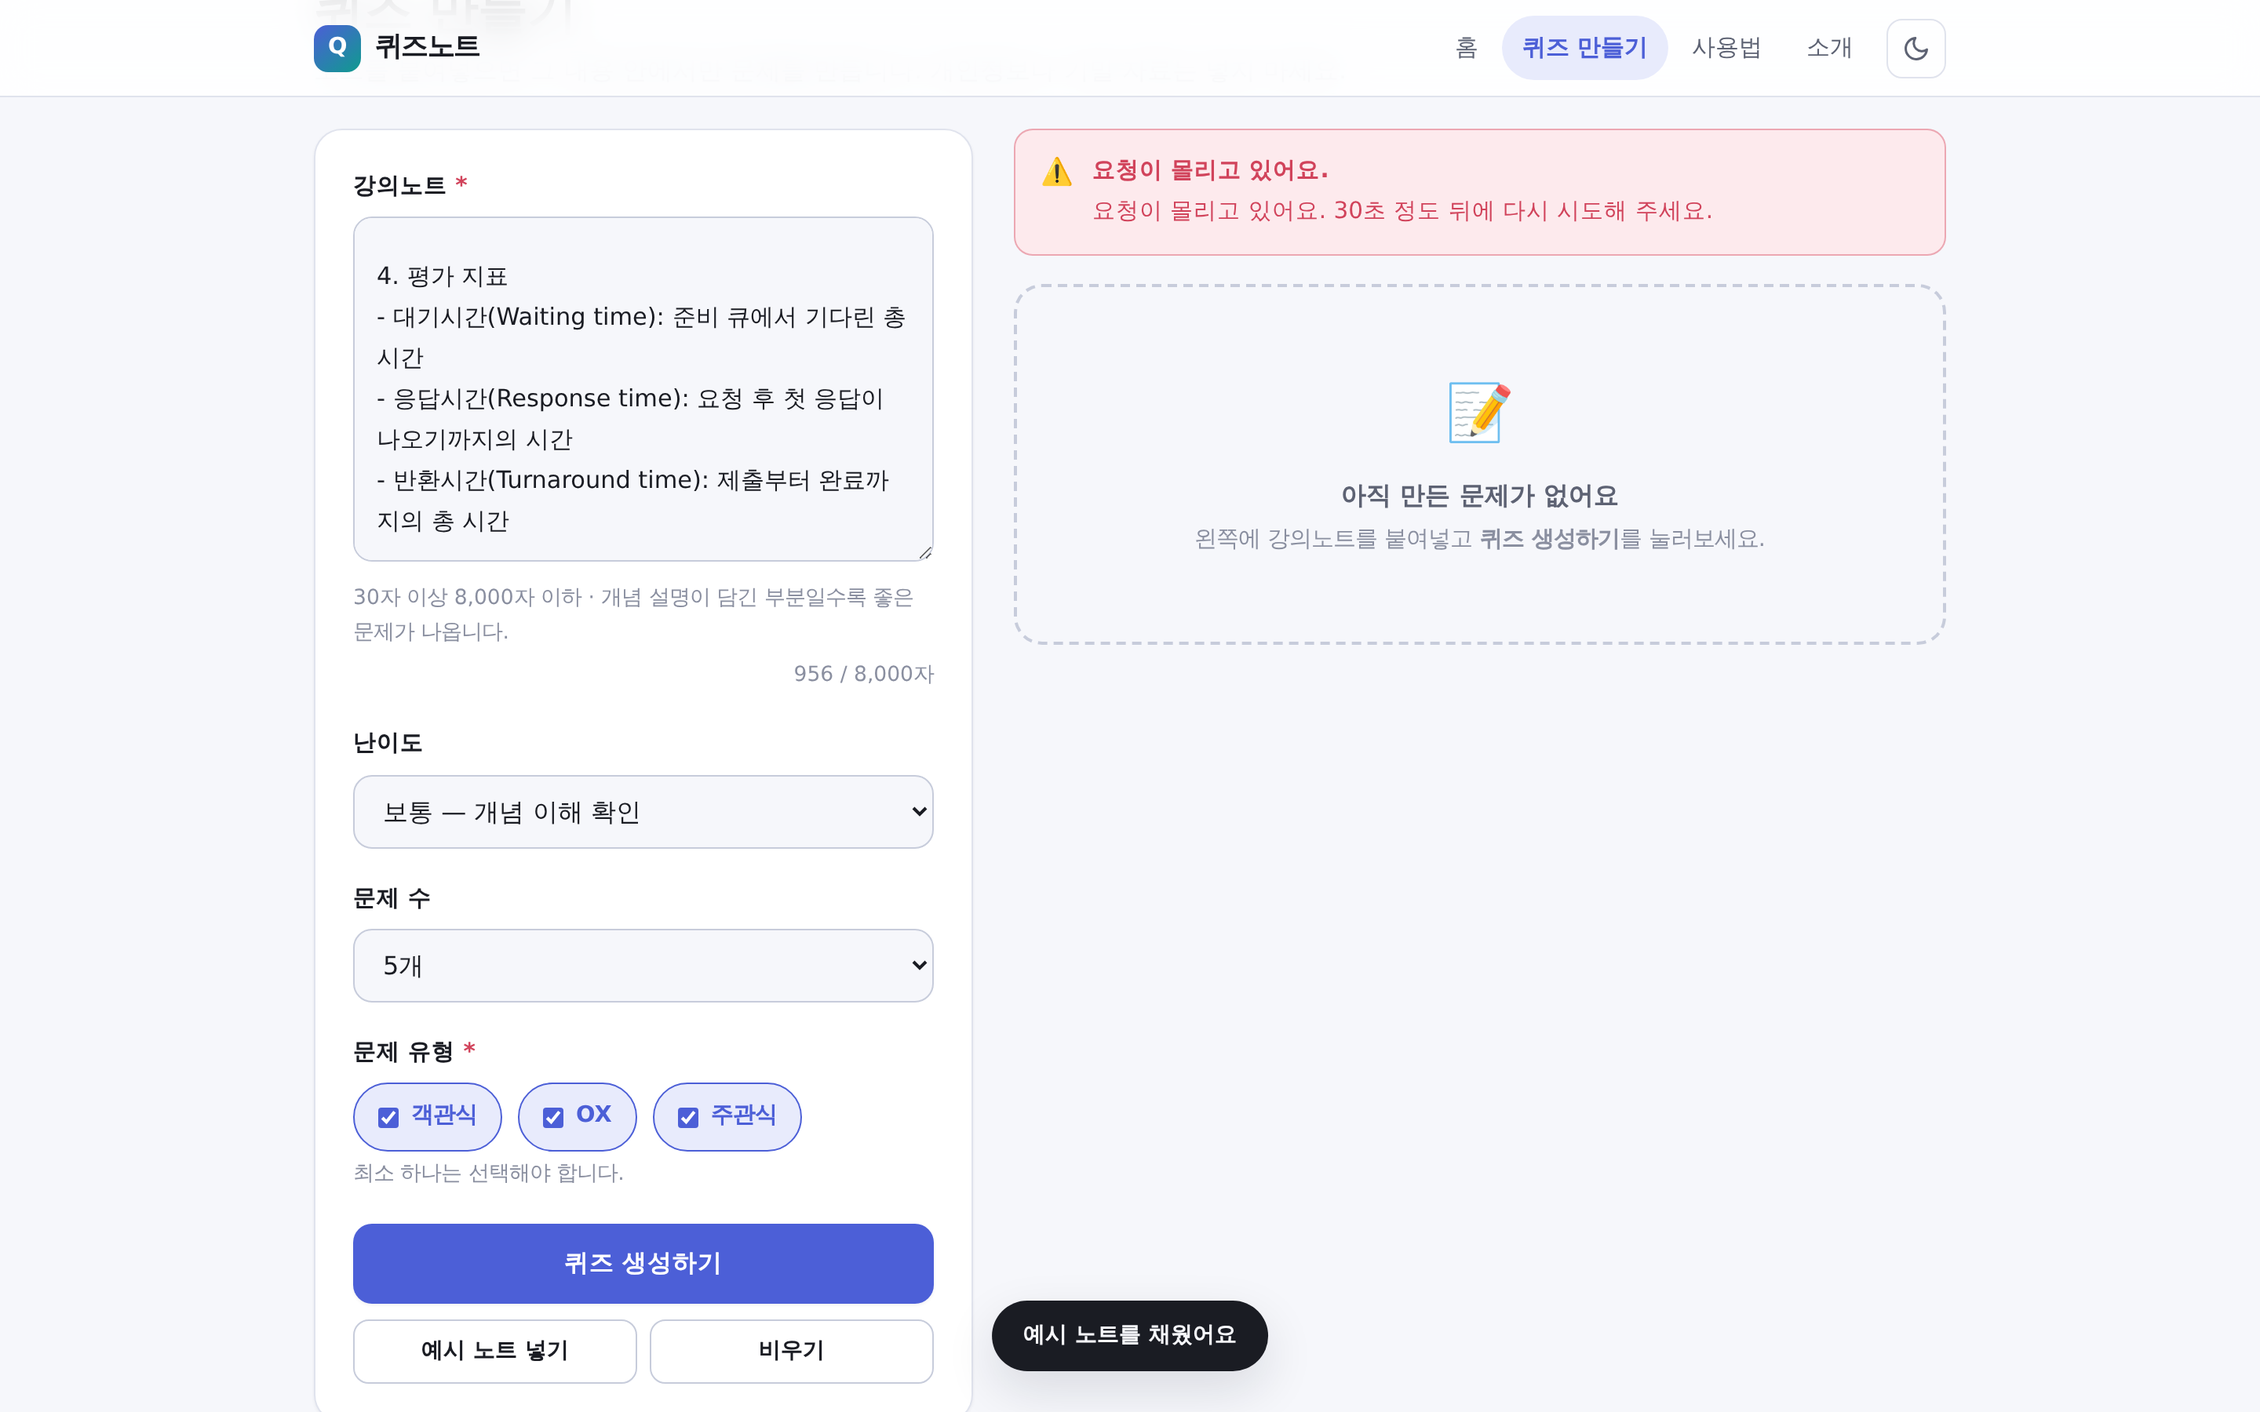
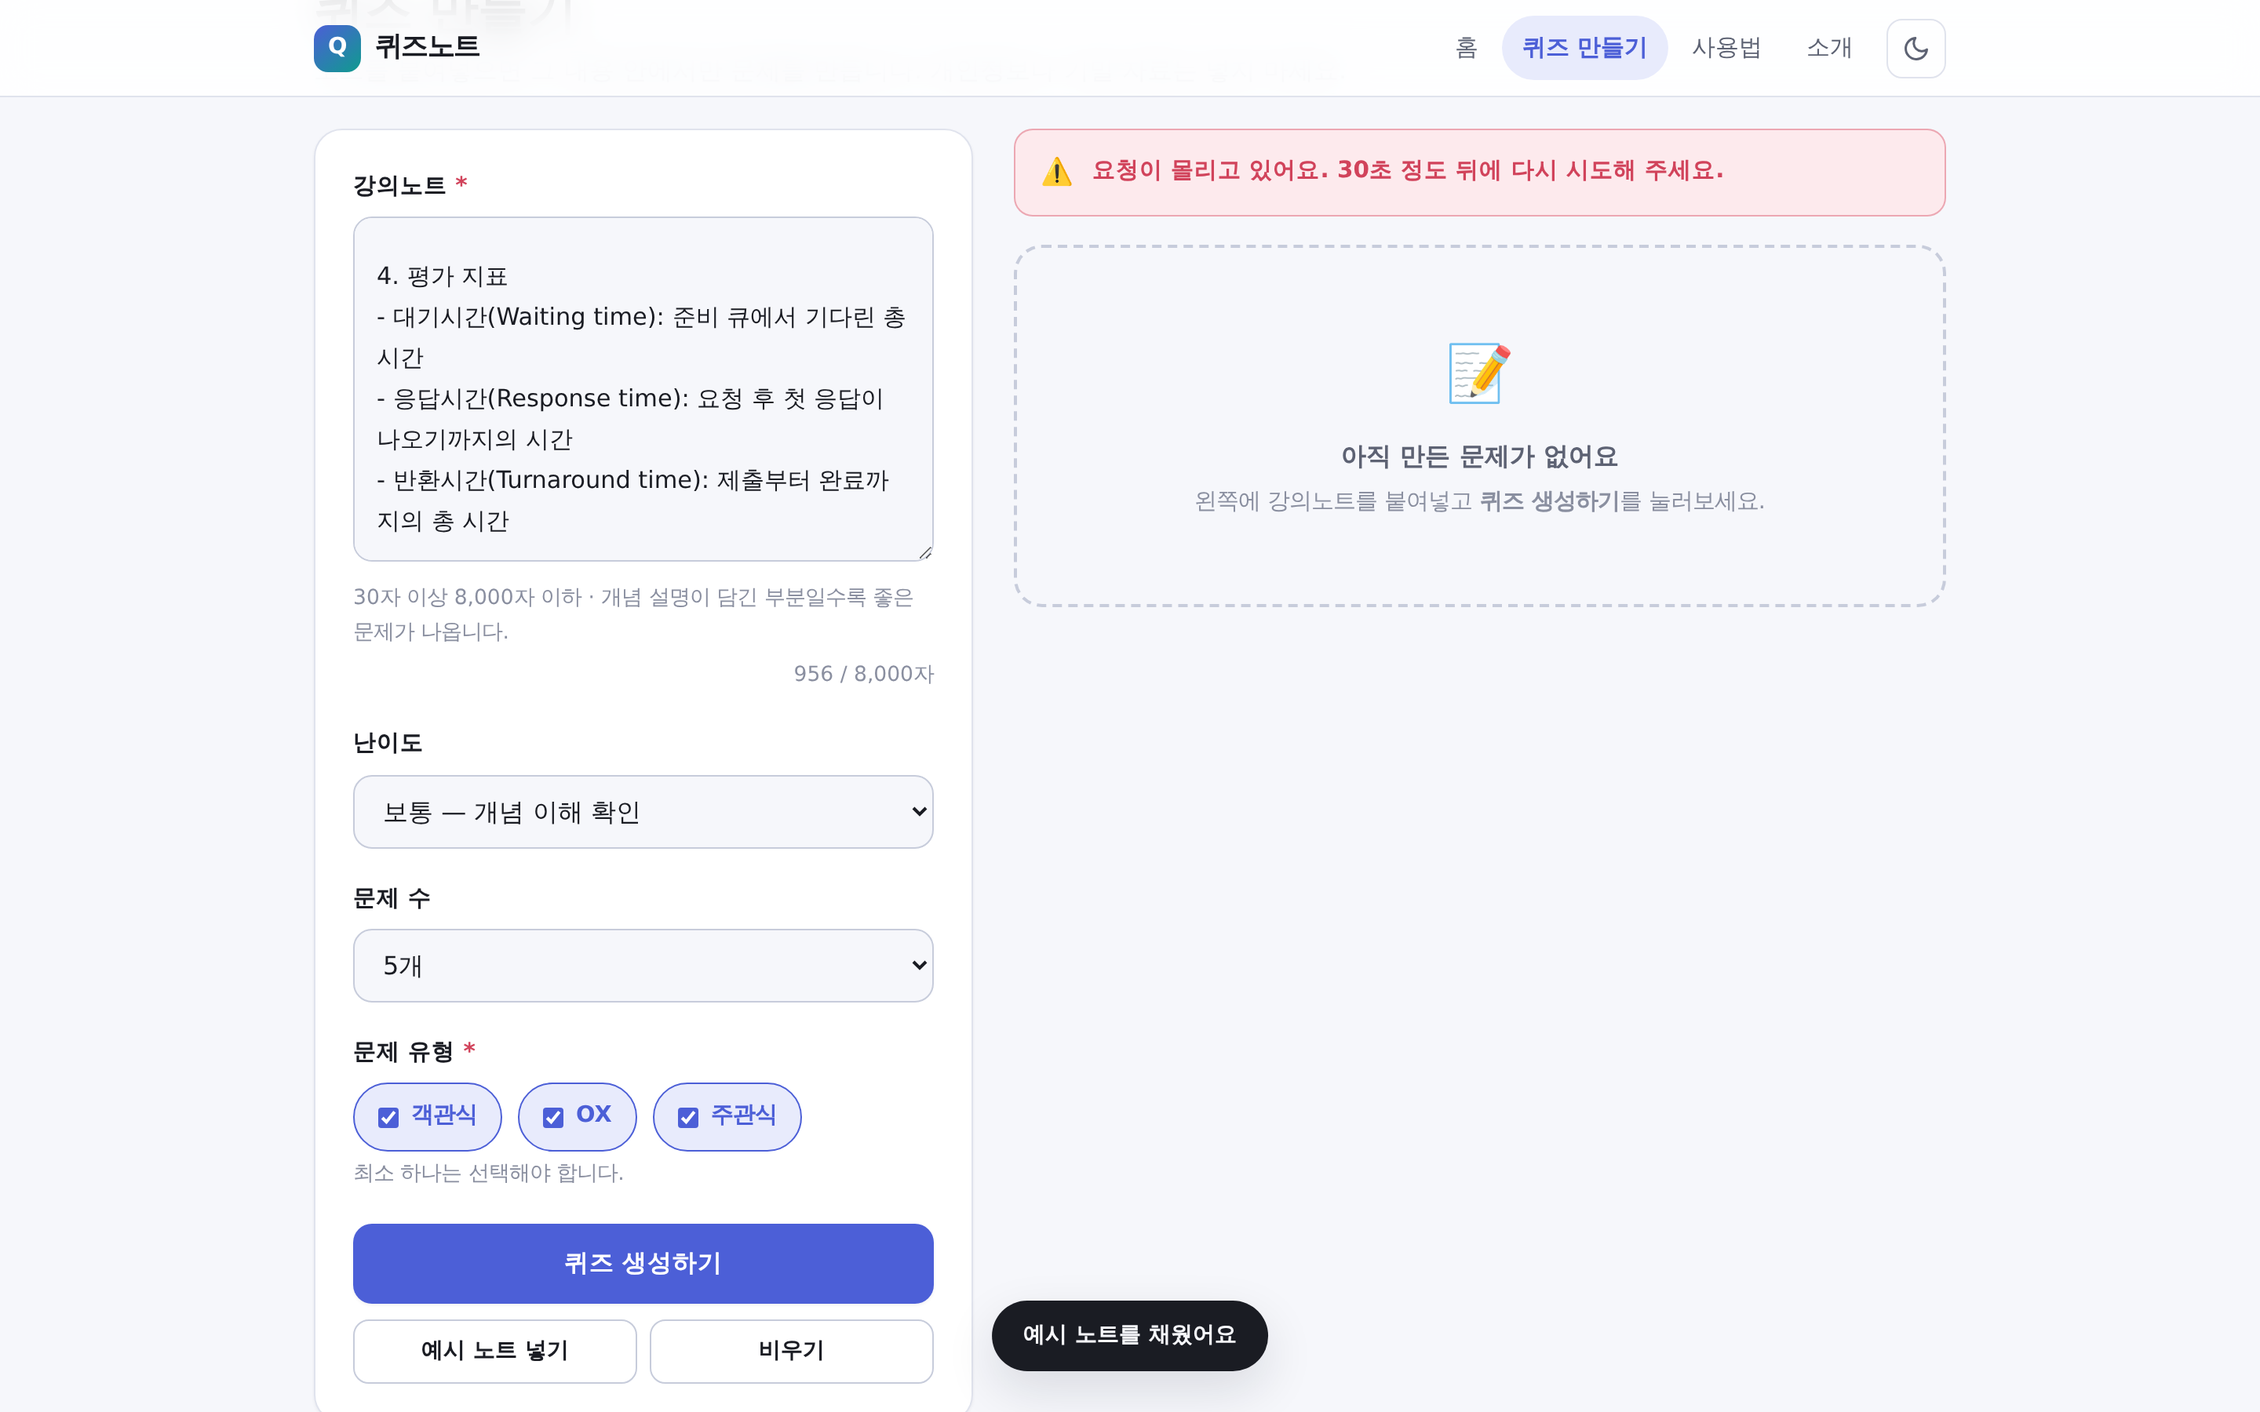
feat: OpenAI 호환 프록시 지원 및 오류 안내 개선
- OPENAI_BASE_URL 환경 변수로 API 서버 주소를 교체 가능하게 변경
- response_format 미지원 서버는 JSON 모드 없이 자동 재시도
- 코드블록/설명이 섞인 응답에서도 JSON 추출
- 404(주소 오류)를 별도 오류로 구분, 서버 메시지를 화면 제목에 노출
- dev_server.py 가 .env 자동 로드, Ctrl+C 종료 정리

Claude-Session: https://claude.ai/code/session_01PGiH5AVx8vTXdwMsNK33bS

Changed region(s): [[0.5312, 0.2489, 0.7812, 0.4044], [0.4688, 0.0933, 0.75, 0.1556]]

diff --git a/js/quiz.js b/js/quiz.js
@@ -441,7 +441,14 @@ async function handleSubmit(e) {
       };
       const fallback = ['문제가 발생했습니다.', ` 잠시 후 다시 시도해 주세요. (오류 코드 ${res.status})`];
       const [title, msg] = map[res.status] || fallback;
-      showAlert('error', title, (data && data.message ? ` ${data.message}` : msg));
+
+      // 서버가 구체적인 안내를 보냈다면 그것을 우선 보여준다.
+      // (같은 502라도 인증 실패인지 주소 오류인지 원인이 다르기 때문)
+      if (data && data.message) {
+        showAlert('error', data.message, '');
+      } else {
+        showAlert('error', title, msg);
+      }
       renderEmpty();
       return;
     }

diff --git a/api/quiz.py b/api/quiz.py
@@ -22,8 +22,10 @@ Vercel Serverless Function (Python)
     실패     → { "ok": false, "error": "코드", "message": "사용자에게 보여줄 안내" }
 
 환경 변수
-    OPENAI_API_KEY  (필수)  OpenAI API 키
-    OPENAI_MODEL    (선택)  기본값 gpt-4o-mini
+    OPENAI_API_KEY   (필수)  API 키
+    OPENAI_BASE_URL  (선택)  기본값 https://api.openai.com/v1
+                             OpenAI 호환 프록시를 쓸 때 그 주소를 넣는다.
+    OPENAI_MODEL     (선택)  기본값 gpt-4o-mini
 """
 
 from http.server import BaseHTTPRequestHandler
@@ -42,8 +44,27 @@ MAX_COUNT = 10
 MAX_BODY_BYTES = 200_000          # 본문 크기 상한 (약 200KB)
 UPSTREAM_TIMEOUT = (5, 45)        # (연결 타임아웃, 읽기 타임아웃) 초
 
-OPENAI_URL = "https://api.openai.com/v1/chat/completions"
+DEFAULT_BASE_URL = "https://api.openai.com/v1"
 DEFAULT_MODEL = "gpt-4o-mini"
+
+
+def chat_completions_url() -> str:
+    """
+    호출할 엔드포인트 주소를 만든다.
+
+    OpenAI 본사 API 대신 OpenAI 호환 프록시(사내/교육용 게이트웨이 등)를 쓰는 경우가 있어
+    베이스 주소를 환경 변수로 뺐다. OPENAI_BASE_URL 을 지정하지 않으면 OpenAI 본사로 간다.
+
+    예)
+        OPENAI_BASE_URL=https://api.openai.com/v1          → 본사
+        OPENAI_BASE_URL=https://example.com/v1             → 호환 프록시
+    """
+    base = (os.environ.get("OPENAI_BASE_URL") or DEFAULT_BASE_URL).strip().rstrip("/")
+
+    # 주소 끝에 이미 /chat/completions 까지 적어 둔 경우도 그대로 받아준다.
+    if base.endswith("/chat/completions"):
+        return base
+    return f"{base}/chat/completions"
 
 VALID_TYPES = ("multiple", "ox", "short")
 VALID_DIFFICULTY = ("easy", "normal", "hard")
@@ -234,55 +255,106 @@ def call_openai(params: dict) -> dict:
 
     model = os.environ.get("OPENAI_MODEL", DEFAULT_MODEL)
 
-    body = {
-        "model": model,
-        "messages": [
-            {"role": "system", "content": build_system_prompt(params["difficulty"], params["count"], params["types"])},
-            {"role": "user", "content": build_user_prompt(params["notes"], params["count"])},
-        ],
-        "response_format": {"type": "json_object"},
-        "temperature": 0.7,
-        "max_tokens": 2600,
+    url = chat_completions_url()
+    headers = {
+        "Authorization": f"Bearer {api_key}",
+        "Content-Type": "application/json",
     }
 
-    try:
-        res = requests.post(
-            OPENAI_URL,
-            headers={
-                "Authorization": f"Bearer {api_key}",
-                "Content-Type": "application/json",
-            },
-            json=body,
-            timeout=UPSTREAM_TIMEOUT,
-        )
-    except requests.exceptions.Timeout:
-        raise InputError(504, "upstream_timeout", "AI 응답이 너무 늦어졌습니다. 노트를 줄이거나 문제 수를 줄여 다시 시도해 주세요.")
-    except requests.exceptions.RequestException:
-        raise InputError(502, "upstream_unreachable", "AI 서버에 연결하지 못했습니다. 잠시 후 다시 시도해 주세요.")
+    def body(json_mode: bool) -> dict:
+        b = {
+            "model": model,
+            "messages": [
+                {"role": "system", "content": build_system_prompt(params["difficulty"], params["count"], params["types"])},
+                {"role": "user", "content": build_user_prompt(params["notes"], params["count"])},
+            ],
+            "temperature": 0.7,
+            "max_tokens": 2600,
+        }
+        if json_mode:
+            # OpenAI JSON 모드. 호환 프록시 중에는 이 옵션을 모르는 곳이 있어 실패 시 빼고 재시도한다.
+            b["response_format"] = {"type": "json_object"}
+        return b
+
+    def post(json_mode: bool):
+        try:
+            return requests.post(url, headers=headers, json=body(json_mode), timeout=UPSTREAM_TIMEOUT)
+        except requests.exceptions.Timeout:
+            raise InputError(504, "upstream_timeout", "AI 응답이 너무 늦어졌습니다. 노트를 줄이거나 문제 수를 줄여 다시 시도해 주세요.")
+        except requests.exceptions.RequestException:
+            raise InputError(502, "upstream_unreachable", "AI 서버에 연결하지 못했습니다. 주소 설정과 네트워크를 확인해 주세요.")
+
+    res = post(True)
+
+    # response_format 을 지원하지 않는 서버라면 400을 준다. 한 번만 빼고 다시 시도한다.
+    if res.status_code == 400 and "response_format" in res.text:
+        print("[quiz] response_format 미지원으로 판단, JSON 모드 없이 재시도")
+        res = post(False)
 
     # --- 상태 코드별 처리 ---------------------------------------------------
-    if res.status_code == 401:
-        raise InputError(502, "upstream_auth", "AI 서비스 인증에 실패했습니다. 관리자에게 문의해 주세요.")
+    if res.status_code in (401, 403):
+        print(f"[quiz] auth {res.status_code} at {url}: {res.text[:200]}")
+        raise InputError(502, "upstream_auth", "AI 서비스 인증에 실패했습니다. API 키와 주소 설정을 확인해 주세요.")
+    if res.status_code == 404:
+        print(f"[quiz] 404 at {url}")
+        raise InputError(502, "upstream_not_found", "AI 서버 주소가 올바르지 않습니다. OPENAI_BASE_URL 설정을 확인해 주세요.")
     if res.status_code == 429:
         raise InputError(429, "rate_limited", "요청이 몰리고 있어요. 30초 정도 뒤에 다시 시도해 주세요.")
     if res.status_code >= 500:
+        print(f"[quiz] upstream {res.status_code} at {url}")
         raise InputError(502, "upstream_error", "AI 서버가 응답하지 않습니다. 잠시 후 다시 시도해 주세요.")
     if res.status_code >= 400:
-        # 400대 나머지 (잘못된 모델명, 컨텍스트 초과 등). 내부 메시지는 노출하지 않는다.
-        print(f"[quiz] openai {res.status_code}: {res.text[:300]}")
-        raise InputError(502, "upstream_bad_request", "AI 요청이 거부되었습니다. 노트를 조금 줄여 다시 시도해 주세요.")
+        # 400대 나머지 (잘못된 모델명, 컨텍스트 초과 등). 내부 메시지는 화면에 노출하지 않는다.
+        print(f"[quiz] upstream {res.status_code} at {url}: {res.text[:300]}")
+        raise InputError(502, "upstream_bad_request", "AI 요청이 거부되었습니다. 모델 이름과 노트 길이를 확인해 주세요.")
 
     # --- 본문 파싱 ----------------------------------------------------------
     try:
         content = res.json()["choices"][0]["message"]["content"]
-        parsed = json.loads(content)
     except (ValueError, KeyError, IndexError, TypeError):
+        print(f"[quiz] 예상과 다른 응답 구조: {res.text[:300]}")
         raise InputError(502, "bad_upstream_json", "AI 응답 형식이 올바르지 않습니다. 다시 시도해 주세요.")
 
+    parsed = extract_json(content)
     if not isinstance(parsed, dict):
+        print(f"[quiz] JSON 추출 실패: {str(content)[:300]}")
         raise InputError(502, "bad_upstream_json", "AI 응답 형식이 올바르지 않습니다. 다시 시도해 주세요.")
 
     return parsed
+
+
+def extract_json(content: str):
+    """
+    모델 응답에서 JSON 객체를 꺼낸다.
+
+    JSON 모드를 쓰면 보통 본문 전체가 JSON이지만, 프록시가 JSON 모드를 지원하지 않으면
+    ```json ... ``` 코드블록으로 감싸서 오거나 앞뒤에 설명이 붙어 오기도 한다.
+    그래서 그대로 파싱해 보고, 실패하면 가장 바깥 중괄호 구간만 잘라 다시 시도한다.
+    """
+    if not isinstance(content, str):
+        return None
+
+    text = content.strip()
+
+    # ```json ... ``` 코드블록 벗기기
+    if text.startswith("```"):
+        text = text.split("```")[1] if len(text.split("```")) > 1 else text
+        if text.lstrip().lower().startswith("json"):
+            text = text.lstrip()[4:]
+        text = text.strip()
+
+    try:
+        return json.loads(text)
+    except ValueError:
+        pass
+
+    start, end = text.find("{"), text.rfind("}")
+    if start != -1 and end > start:
+        try:
+            return json.loads(text[start : end + 1])
+        except ValueError:
+            return None
+    return None
 
 
 # ---------------------------------------------------------------------------

diff --git a/dev_server.py b/dev_server.py
@@ -22,7 +22,31 @@ import os
 import sys
 from http.server import SimpleHTTPRequestHandler, ThreadingHTTPServer
 
-sys.path.insert(0, os.path.join(os.path.dirname(os.path.abspath(__file__)), "api"))
+ROOT = os.path.dirname(os.path.abspath(__file__))
+sys.path.insert(0, os.path.join(ROOT, "api"))
+
+
+def load_dotenv():
+    """
+    프로젝트 루트의 .env 파일을 읽어 환경 변수로 넣는다. (외부 패키지 없이 직접 구현)
+    이미 셸에 설정된 값이 있으면 그 값을 우선한다.
+    """
+    path = os.path.join(ROOT, ".env")
+    if not os.path.exists(path):
+        return
+    with open(path, encoding="utf-8") as f:
+        for line in f:
+            line = line.strip()
+            if not line or line.startswith("#") or "=" not in line:
+                continue
+            key, _, value = line.partition("=")
+            key, value = key.strip(), value.strip().strip('"').strip("'")
+            if key and key not in os.environ:
+                os.environ[key] = value
+    print("· .env 파일을 불러왔습니다.")
+
+
+load_dotenv()
 
 from quiz import handle_request, MAX_BODY_BYTES  # noqa: E402
 
@@ -67,9 +91,16 @@ class DevHandler(SimpleHTTPRequestHandler):
 
 
 if __name__ == "__main__":
-    if not os.environ.get("OPENAI_API_KEY"):
-        print("⚠  OPENAI_API_KEY 가 설정되지 않았습니다. 화면은 뜨지만 퀴즈 생성은 500 오류가 납니다.\n")
+    if os.environ.get("OPENAI_API_KEY"):
+        base = os.environ.get("OPENAI_BASE_URL", "https://api.openai.com/v1")
+        print(f"· API 주소: {base}")
+        print(f"· 모델: {os.environ.get('OPENAI_MODEL', 'gpt-4o-mini')}")
+    else:
+        print("⚠  OPENAI_API_KEY 가 설정되지 않았습니다. 화면은 뜨지만 퀴즈 생성은 500 오류가 납니다.")
 
-    os.chdir(os.path.dirname(os.path.abspath(__file__)))
-    print(f"▶ http://localhost:{PORT} 에서 실행 중입니다. (Ctrl+C 로 종료)")
-    ThreadingHTTPServer(("0.0.0.0", PORT), DevHandler).serve_forever()
+    os.chdir(ROOT)
+    print(f"\n▶ http://localhost:{PORT} 에서 실행 중입니다. (Ctrl+C 로 종료)")
+    try:
+        ThreadingHTTPServer(("0.0.0.0", PORT), DevHandler).serve_forever()
+    except KeyboardInterrupt:
+        print("\n서버를 종료합니다.")

diff --git a/README.md b/README.md
@@ -125,8 +125,15 @@ OpenAI Chat Completions API
 
 | 이름 | 필수 | 설명 | 예시 |
 |---|:---:|---|---|
-| `OPENAI_API_KEY` | ✅ | OpenAI API 키 | `sk-proj-xxxxxxxx...` |
+| `OPENAI_API_KEY` | ✅ | API 키 | `sk-proj-xxxxxxxx...` |
+| `OPENAI_BASE_URL` | ❌ | API 서버 주소. 비우면 `https://api.openai.com/v1` | `https://프록시주소/v1` |
 | `OPENAI_MODEL` | ❌ | 사용할 모델. 비우면 `gpt-4o-mini` | `gpt-4o-mini` |
+
+> **OpenAI 호환 프록시를 쓰는 경우**
+> 학교·회사에서 제공하는 게이트웨이처럼 OpenAI와 같은 규격이지만 주소만 다른 서버를 쓴다면
+> `OPENAI_BASE_URL` 에 그 주소(보통 `.../v1` 까지)를 넣으세요.
+> 코드가 뒤에 `/chat/completions` 를 붙여 호출합니다.
+> 주소를 지정하지 않으면 OpenAI 본사로 가고, 본사 키가 아니면 `invalid_api_key` 로 거부됩니다.
 
 ### 1) 키 발급
 
@@ -143,14 +150,18 @@ OpenAI Chat Completions API
 cp .env.example .env
 ```
 
-또는 셸에서 직접 지정합니다.
+`dev_server.py` 는 실행할 때 이 `.env` 파일을 자동으로 읽습니다.
+또는 셸에서 직접 지정해도 됩니다. (셸 값이 `.env` 보다 우선합니다)
 
 ```bash
 # macOS / Linux
 export OPENAI_API_KEY="sk-..."
 
-# Windows PowerShell
+# Windows PowerShell — export 가 아니라 $env: 입니다
 $env:OPENAI_API_KEY="sk-..."
+
+# Windows 명령 프롬프트(cmd)
+set OPENAI_API_KEY=sk-...
 ```
 
 > `.env` 는 `.gitignore` 에 등록되어 있어 커밋되지 않습니다.
@@ -353,7 +364,10 @@ git push
 | 배포 후 500 오류 | 환경 변수 미등록 | Vercel Settings 에 `OPENAI_API_KEY` 추가 후 **Redeploy** |
 | 환경 변수를 넣었는데도 500 | 재배포를 하지 않음 | Deployments → ⋯ → Redeploy |
 | `/api/quiz` 404 | 파일 위치가 잘못됨 | `api/quiz.py` 경로와 `handler` 클래스 이름 확인 |
+| `invalid_api_key` | 키가 해당 서버의 것이 아님 | 키 발급처와 `OPENAI_BASE_URL` 이 짝이 맞는지 확인 |
 | 502 인증 실패 | 키가 잘못됐거나 폐기됨 | 키 재발급 후 환경 변수 교체 |
+| 주소가 올바르지 않다는 안내 (404) | `OPENAI_BASE_URL` 경로 오류 | `.../v1` 까지만 넣었는지 확인 |
+| PowerShell에서 `export` 오류 | bash 문법을 씀 | `$env:이름="값"` 으로 지정 |
 | 429 | 무료 크레딧 소진 또는 호출 과다 | OpenAI Billing 확인, 잠시 후 재시도 |
 | 로컬은 되는데 배포는 안 됨 | 로컬 `.env` 값만 있고 Vercel 에 없음 | Vercel 환경 변수 등록 |
 | 함수 타임아웃 | 노트가 너무 길거나 문제 수가 많음 | 노트를 줄이거나 `vercel.json` 의 `maxDuration` 조정 |
